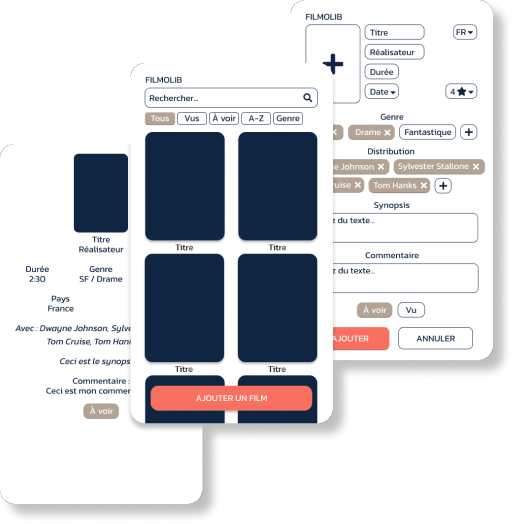
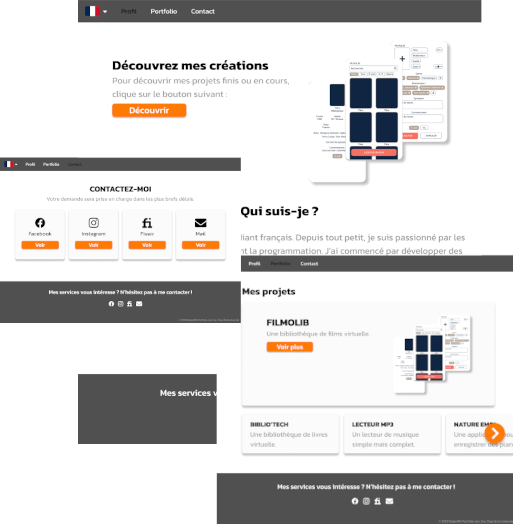
Add files via upload

diff --git a/portfolio_de.html b/portfolio_de.html
@@ -17,10 +17,10 @@
             </ul>
         </nav>
         <div class="menu nav">
-            <a href="portfolio_fr.html"><img src="img/fr_flag.png" width="50"></a>
-            <a href="portfolio_en.html"><img src="img/en_flag.png" width="50"></a>
-            <a href="portfolio_de.html"><img src="img/de_flag.png" width="50"></a>
-            <a href="portfolio_es.html"><img src="img/es_flag.png" width="50"></a>
+            <a href="portfolio_fr.html"><img src="img/fr_flag.png" width="25"></a>
+            <a href="portfolio_en.html"><img src="img/en_flag.png" width="25"></a>
+            <a href="portfolio_de.html"><img src="img/de_flag.png" width="25"></a>
+            <a href="portfolio_es.html"><img src="img/es_flag.png" width="25"></a>
         </div>
         <script type="text/javascript" src="js/app.js"></script>
         <br>

diff --git a/portfolio_en.html b/portfolio_en.html
@@ -17,10 +17,10 @@
             </ul>
         </nav>
         <div class="menu nav">
-            <a href="portfolio_fr.html"><img src="img/fr_flag.png" width="50"></a>
-            <a href="portfolio_en.html"><img src="img/en_flag.png" width="50"></a>
-            <a href="portfolio_de.html"><img src="img/de_flag.png" width="50"></a>
-            <a href="portfolio_es.html"><img src="img/es_flag.png" width="50"></a>
+            <a href="portfolio_fr.html"><img src="img/fr_flag.png" width="25"></a>
+            <a href="portfolio_en.html"><img src="img/en_flag.png" width="25"></a>
+            <a href="portfolio_de.html"><img src="img/de_flag.png" width="25"></a>
+            <a href="portfolio_es.html"><img src="img/es_flag.png" width="25"></a>
         </div>
         <script type="text/javascript" src="js/app.js"></script>
         <br>

diff --git a/portfolio_es.html b/portfolio_es.html
@@ -17,10 +17,10 @@
             </ul>
         </nav>
         <div class="menu nav">
-            <a href="portfolio_fr.html"><img src="img/fr_flag.png" width="50"></a>
-            <a href="portfolio_en.html"><img src="img/en_flag.png" width="50"></a>
-            <a href="portfolio_de.html"><img src="img/de_flag.png" width="50"></a>
-            <a href="portfolio_es.html"><img src="img/es_flag.png" width="50"></a>
+            <a href="portfolio_fr.html"><img src="img/fr_flag.png" width="25"></a>
+            <a href="portfolio_en.html"><img src="img/en_flag.png" width="25"></a>
+            <a href="portfolio_de.html"><img src="img/de_flag.png" width="25"></a>
+            <a href="portfolio_es.html"><img src="img/es_flag.png" width="25"></a>
         </div>
         <script type="text/javascript" src="js/app.js"></script>
         <br>

diff --git a/portfolio_fr.html b/portfolio_fr.html
@@ -17,10 +17,10 @@
             </ul>
         </nav>
         <div class="menu nav">
-            <a href="portfolio_fr.html"><img src="img/fr_flag.png" width="50"></a>
-            <a href="portfolio_en.html"><img src="img/en_flag.png" width="50"></a>
-            <a href="portfolio_de.html"><img src="img/de_flag.png" width="50"></a>
-            <a href="portfolio_es.html"><img src="img/es_flag.png" width="50"></a>
+            <a href="portfolio_fr.html"><img src="img/fr_flag.png" width="25"></a>
+            <a href="portfolio_en.html"><img src="img/en_flag.png" width="25"></a>
+            <a href="portfolio_de.html"><img src="img/de_flag.png" width="25"></a>
+            <a href="portfolio_es.html"><img src="img/es_flag.png" width="25"></a>
         </div>
         <script type="text/javascript" src="js/app.js"></script>
         <br>

diff --git a/contact_de.html b/contact_de.html
@@ -17,10 +17,10 @@
             </ul>
         </nav>
         <div class="menu nav">
-            <a href="contact_fr.html"><img src="img/fr_flag.png" width="50"></a>
-            <a href="contact_en.html"><img src="img/en_flag.png" width="50"></a>
-            <a href="contact_de.html"><img src="img/de_flag.png" width="50"></a>
-            <a href="contact_es.html"><img src="img/es_flag.png" width="50"></a>
+            <a href="contact_fr.html"><img src="img/fr_flag.png" width="25"></a>
+            <a href="contact_en.html"><img src="img/en_flag.png" width="25"></a>
+            <a href="contact_de.html"><img src="img/de_flag.png" width="25"></a>
+            <a href="contact_es.html"><img src="img/es_flag.png" width="25"></a>
         </div>
         <script type="text/javascript" src="js/app.js"></script>
         <br>

diff --git a/contact_en.html b/contact_en.html
@@ -17,10 +17,10 @@
             </ul>
         </nav>
         <div class="menu nav">
-            <a href="contact_fr.html"><img src="img/fr_flag.png" width="50"></a>
-            <a href="contact_en.html"><img src="img/en_flag.png" width="50"></a>
-            <a href="contact_de.html"><img src="img/de_flag.png" width="50"></a>
-            <a href="contact_es.html"><img src="img/es_flag.png" width="50"></a>
+            <a href="contact_fr.html"><img src="img/fr_flag.png" width="25"></a>
+            <a href="contact_en.html"><img src="img/en_flag.png" width="25"></a>
+            <a href="contact_de.html"><img src="img/de_flag.png" width="25"></a>
+            <a href="contact_es.html"><img src="img/es_flag.png" width="25"></a>
         </div>
         <script type="text/javascript" src="js/app.js"></script>
         <br>

diff --git a/contact_es.html b/contact_es.html
@@ -17,10 +17,10 @@
             </ul>
         </nav>
         <div class="menu nav">
-            <a href="contact_fr.html"><img src="img/fr_flag.png" width="50"></a>
-            <a href="contact_en.html"><img src="img/en_flag.png" width="50"></a>
-            <a href="contact_de.html"><img src="img/de_flag.png" width="50"></a>
-            <a href="contact_es.html"><img src="img/es_flag.png" width="50"></a>
+            <a href="contact_fr.html"><img src="img/fr_flag.png" width="25"></a>
+            <a href="contact_en.html"><img src="img/en_flag.png" width="25"></a>
+            <a href="contact_de.html"><img src="img/de_flag.png" width="25"></a>
+            <a href="contact_es.html"><img src="img/es_flag.png" width="25"></a>
         </div>
         <script type="text/javascript" src="js/app.js"></script>
         <br>

diff --git a/contact_fr.html b/contact_fr.html
@@ -17,10 +17,10 @@
             </ul>
         </nav>
         <div class="menu nav">
-            <a href="contact_fr.html"><img src="img/fr_flag.png" width="50"></a>
-            <a href="contact_en.html"><img src="img/en_flag.png" width="50"></a>
-            <a href="contact_de.html"><img src="img/de_flag.png" width="50"></a>
-            <a href="contact_es.html"><img src="img/es_flag.png" width="50"></a>
+            <a href="contact_fr.html"><img src="img/fr_flag.png" width="25"></a>
+            <a href="contact_en.html"><img src="img/en_flag.png" width="25"></a>
+            <a href="contact_de.html"><img src="img/de_flag.png" width="25"></a>
+            <a href="contact_es.html"><img src="img/es_flag.png" width="25"></a>
         </div>
         <script type="text/javascript" src="js/app.js"></script>
         <br>

diff --git a/profil_de.html b/profil_de.html
@@ -17,10 +17,10 @@
             </ul>
         </nav>
         <div class="menu nav">
-            <a href="profil_fr.html"><img src="img/fr_flag.png" width="50"></a>
-            <a href="profil_en.html"><img src="img/en_flag.png" width="50"></a>
-            <a href="profil_de.html"><img src="img/de_flag.png" width="50"></a>
-            <a href="profil_es.html"><img src="img/es_flag.png" width="50"></a>
+            <a href="profil_fr.html"><img src="img/fr_flag.png" width="25"></a>
+            <a href="profil_en.html"><img src="img/en_flag.png" width="25"></a>
+            <a href="profil_de.html"><img src="img/de_flag.png" width="25"></a>
+            <a href="profil_es.html"><img src="img/es_flag.png" width="25"></a>
         </div>
         <script type="text/javascript" src="js/app.js"></script>
         

diff --git a/profil_en.html b/profil_en.html
@@ -17,10 +17,10 @@
             </ul>
         </nav>
         <div class="menu nav">
-            <a href="profil_fr.html"><img src="img/fr_flag.png" width="50"></a>
-            <a href="profil_en.html"><img src="img/en_flag.png" width="50"></a>
-            <a href="profil_de.html"><img src="img/de_flag.png" width="50"></a>
-            <a href="profil_es.html"><img src="img/es_flag.png" width="50"></a>
+            <a href="profil_fr.html"><img src="img/fr_flag.png" width="25"></a>
+            <a href="profil_en.html"><img src="img/en_flag.png" width="25"></a>
+            <a href="profil_de.html"><img src="img/de_flag.png" width="25"></a>
+            <a href="profil_es.html"><img src="img/es_flag.png" width="25"></a>
         </div>
         <script type="text/javascript" src="js/app.js"></script>
         

diff --git a/profil_es.html b/profil_es.html
@@ -17,10 +17,10 @@
             </ul>
         </nav>
         <div class="menu nav">
-            <a href="profil_fr.html"><img src="img/fr_flag.png" width="50"></a>
-            <a href="profil_en.html"><img src="img/en_flag.png" width="50"></a>
-            <a href="profil_de.html"><img src="img/de_flag.png" width="50"></a>
-            <a href="profil_es.html"><img src="img/es_flag.png" width="50"></a>
+            <a href="profil_fr.html"><img src="img/fr_flag.png" width="25"></a>
+            <a href="profil_en.html"><img src="img/en_flag.png" width="25"></a>
+            <a href="profil_de.html"><img src="img/de_flag.png" width="25"></a>
+            <a href="profil_es.html"><img src="img/es_flag.png" width="25"></a>
         </div>
         <script type="text/javascript" src="js/app.js"></script>
         

diff --git a/profil_fr.html b/profil_fr.html
@@ -17,10 +17,10 @@
             </ul>
         </nav>
         <div class="menu nav">
-            <a href="profil_fr.html"><img src="img/fr_flag.png" width="50"></a>
-            <a href="profil_en.html"><img src="img/en_flag.png" width="50"></a>
-            <a href="profil_de.html"><img src="img/de_flag.png" width="50"></a>
-            <a href="profil_es.html"><img src="img/es_flag.png" width="50"></a>
+            <a href="profil_fr.html"><img src="img/fr_flag.png" width="25"></a>
+            <a href="profil_en.html"><img src="img/en_flag.png" width="25"></a>
+            <a href="profil_de.html"><img src="img/de_flag.png" width="25"></a>
+            <a href="profil_es.html"><img src="img/es_flag.png" width="25"></a>
         </div>
         <script type="text/javascript" src="js/app.js"></script>
         
